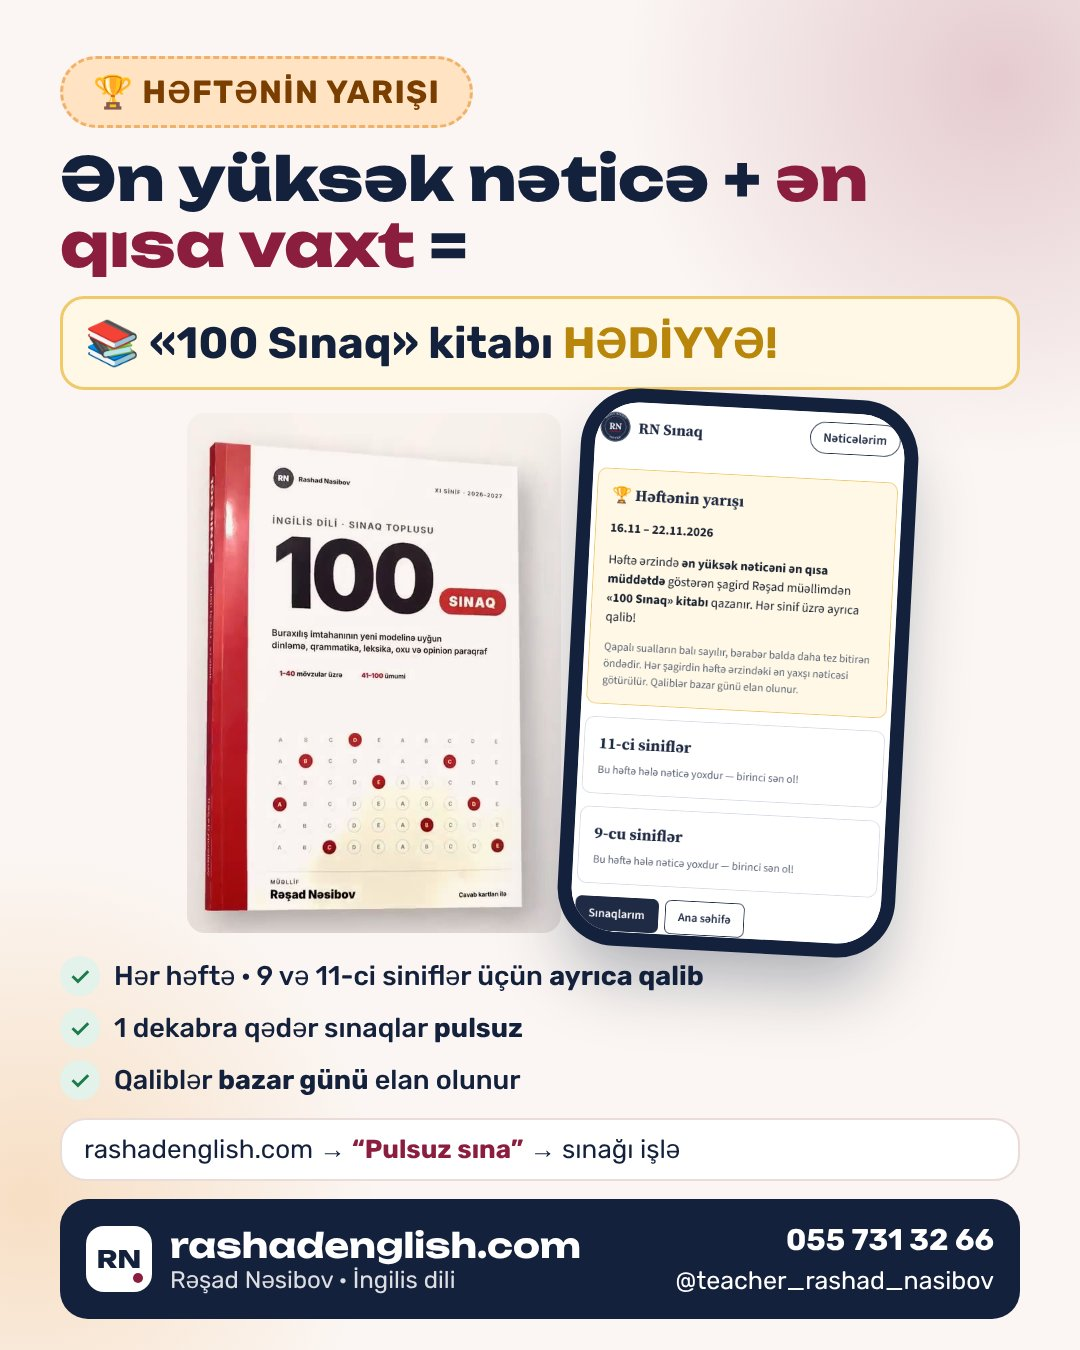
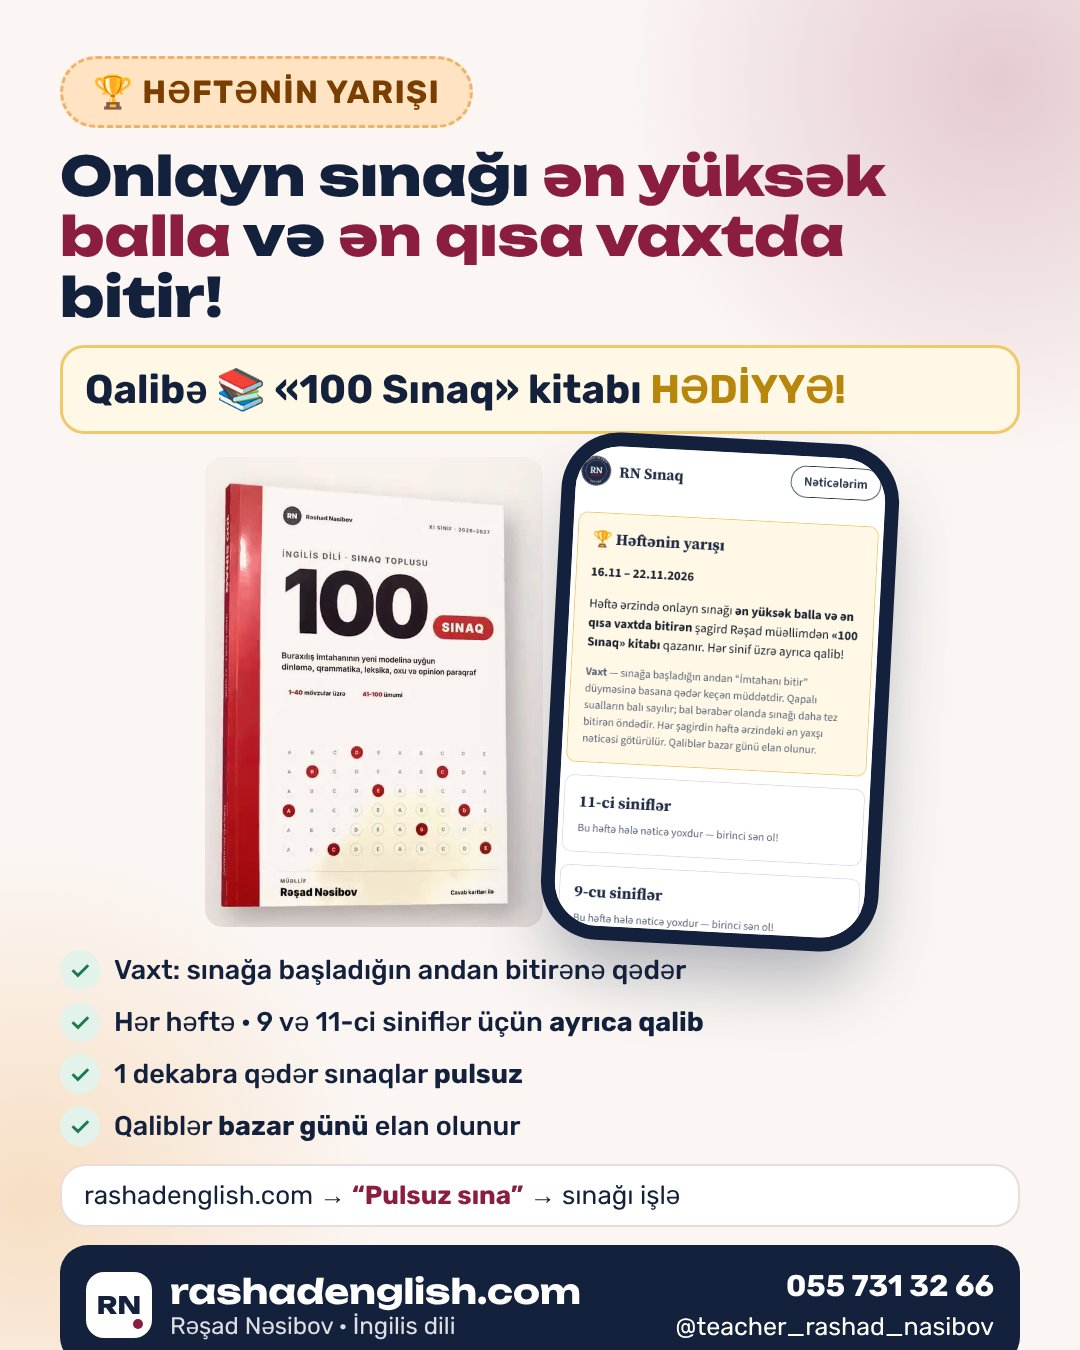
Yarış: vaxt şərti aydınlaşdırıldı
Claude-Session: https://claude.ai/code/session_01Hk9sGQBL3DWnEys9vsL7EC

diff --git a/index.html b/index.html
@@ -1006,7 +1006,7 @@ header.top .tabs a,header.top .tabs-in a,header.top:not(.compact) .tabs a{font-s
 <main id="home">
   <div class="film nslide" aria-label="Yeniliklər">
     <div class="wrap ns-head"><b>Yeniliklər</b><span class="ns-nav"><button type="button" class="ns-p" aria-label="Əvvəlki">‹</button><button type="button" class="ns-n" aria-label="Növbəti">›</button></span></div>
-    <div class="wrap"><div class="ns-view"><div class="ns-track"><a class="ns-s" href="#sinaq-qrupu" data-to="yaris"><span class="ns-img"><img src="img/yaris.jpg" alt="" ></span><span class="ns-tx"><em>🏆 Həftənin yarışı</em><b>Ən yüksək nəticə + ən qısa vaxt = «100 Sınaq» kitabı hədiyyə!</b><span>9 və 11-ci siniflər üçün ayrıca qalib. Qaliblər hər bazar günü elan olunur.</span><i>Yarışa qoşul →</i></span></a><a class="ns-s" href="#sinaq-qrupu" data-to="promo"><span class="ns-img"><img src="img/9sinif.jpg" alt="" loading="lazy"></span><span class="ns-tx"><em>📢 Yenilik</em><b>Artıq 9-cu siniflər də onlayn sınaqda!</b><span>Buraxılış formatında: dinləmə, oxu, qrammatika, story. 1 dekabra qədər pulsuz.</span><i>Pulsuz sına →</i></span></a><a class="ns-s" href="/dinleme/"><span class="ns-img"><img src="img/dinleme.jpg" alt="" loading="lazy"></span><span class="ns-tx"><em>🎧 Yenilik</em><b>«100 Sınaq» kitabının dinləmələri saytda</b><span>100 sınağın hamısı — reklamsız, telefondan birbaşa dinlə.</span><i>Dinləmələrə keç →</i></span></a><a class="ns-s" href="#sinaq-qrupu"><span class="ns-img"><img src="poster.jpg" alt="" loading="lazy"></span><span class="ns-tx"><em>1 dekabrdan</em><b>Onlayn Sınaq Qrupu</b><span>Ayda 8 DİM tipli sınaq, nəticə vərəqi və səhvlərin izahı — 20 ₼.</span><i>Ətraflı →</i></span></a><a class="ns-s" href="#kitab"><span class="ns-img"><img src="book-poster.jpg" alt="" loading="lazy"></span><span class="ns-tx"><em>Kitab</em><b>«100 Sınaq» — XI sinif, 2026–2027</b><span>Buraxılış imtahanının yeni modelinə uyğun 100 sınaq, cavab kartları ilə.</span><i>Kitab haqqında →</i></span></a><a class="ns-s" href="#neticeler"><span class="ns-img"><img src="av-aysu.jpg" alt="" loading="lazy"></span><span class="ns-tx"><em>2026 nəticələri</em><b>2 respublika birincisi, 66 tələbə universitetdə</b><span>Aysu Məhərrəmli və Nihad Fərəcov ingilis dilindən 400/400.</span><i>Nəticələrə bax →</i></span></a></div></div><div class="ns-dots"></div></div>
+    <div class="wrap"><div class="ns-view"><div class="ns-track"><a class="ns-s" href="#sinaq-qrupu" data-to="yaris"><span class="ns-img"><img src="img/yaris.jpg" alt="" ></span><span class="ns-tx"><em>🏆 Həftənin yarışı</em><b>Onlayn sınağı ən yüksək balla və ən qısa vaxtda bitir — «100 Sınaq» kitabı qazan!</b><span>Vaxt sınağa başladığın andan bitirənə qədər ölçülür. 9 və 11-ci siniflər üçün ayrıca qalib, qaliblər hər bazar günü elan olunur.</span><i>Yarışa qoşul →</i></span></a><a class="ns-s" href="#sinaq-qrupu" data-to="promo"><span class="ns-img"><img src="img/9sinif.jpg" alt="" loading="lazy"></span><span class="ns-tx"><em>📢 Yenilik</em><b>Artıq 9-cu siniflər də onlayn sınaqda!</b><span>Buraxılış formatında: dinləmə, oxu, qrammatika, story. 1 dekabra qədər pulsuz.</span><i>Pulsuz sına →</i></span></a><a class="ns-s" href="/dinleme/"><span class="ns-img"><img src="img/dinleme.jpg" alt="" loading="lazy"></span><span class="ns-tx"><em>🎧 Yenilik</em><b>«100 Sınaq» kitabının dinləmələri saytda</b><span>100 sınağın hamısı — reklamsız, telefondan birbaşa dinlə.</span><i>Dinləmələrə keç →</i></span></a><a class="ns-s" href="#sinaq-qrupu"><span class="ns-img"><img src="poster.jpg" alt="" loading="lazy"></span><span class="ns-tx"><em>1 dekabrdan</em><b>Onlayn Sınaq Qrupu</b><span>Ayda 8 DİM tipli sınaq, nəticə vərəqi və səhvlərin izahı — 20 ₼.</span><i>Ətraflı →</i></span></a><a class="ns-s" href="#kitab"><span class="ns-img"><img src="book-poster.jpg" alt="" loading="lazy"></span><span class="ns-tx"><em>Kitab</em><b>«100 Sınaq» — XI sinif, 2026–2027</b><span>Buraxılış imtahanının yeni modelinə uyğun 100 sınaq, cavab kartları ilə.</span><i>Kitab haqqında →</i></span></a><a class="ns-s" href="#neticeler"><span class="ns-img"><img src="av-aysu.jpg" alt="" loading="lazy"></span><span class="ns-tx"><em>2026 nəticələri</em><b>2 respublika birincisi, 66 tələbə universitetdə</b><span>Aysu Məhərrəmli və Nihad Fərəcov ingilis dilindən 400/400.</span><i>Nəticələrə bax →</i></span></a></div></div><div class="ns-dots"></div></div>
   </div>
   <div class="hero">
     <div class="wrap hero-grid">
@@ -1143,10 +1143,11 @@ header.top .tabs a,header.top .tabs-in a,header.top:not(.compact) .tabs a{font-s
         <img src="img/yaris.jpg" alt="Həftənin yarışı — «100 Sınaq» kitabı hədiyyə" loading="lazy">
         <div class="yb">
           <span class="yc">🏆 Həftənin yarışı</span>
-          <h3>Ən yüksək nəticə + ən qısa vaxt = <em>«100 Sınaq» kitabı hədiyyə!</em></h3>
-          <ul><li>Həftə ərzində (bazar ertəsi – bazar) onlayn sınaqda <b>ən yüksək balı ən qısa müddətdə</b> toplayan şagird qalib olur.</li>
+          <h3>Onlayn sınağı ən yüksək balla və ən qısa vaxtda bitir — <em>«100 Sınaq» kitabı qazan!</em></h3>
+          <ul><li>Həftə ərzində (bazar ertəsi – bazar) onlayn sınağı <b>ən yüksək balla və ən qısa vaxtda bitirən</b> şagird qalib olur.</li>
+          <li><b>Vaxt</b> — sınağa başladığın andan “İmtahanı bitir” düyməsinə basana qədər keçən müddətdir (maksimum 1 saat).</li>
           <li><b>9 və 11-ci siniflər</b> üçün ayrıca qalib.</li>
-          <li>Qapalı sualların balı sayılır; bal bərabər olanda daha tez bitirən öndədir. Hər şagirdin həftəlik ən yaxşı nəticəsi götürülür.</li>
+          <li>Qapalı sualların balı sayılır; bal bərabər olanda sınağı daha tez bitirən öndədir. Hər şagirdin həftəlik ən yaxşı nəticəsi götürülür.</li>
           <li>Reytinqi sınaq pəncərəsində <b>“🏆 Həftənin yarışı”</b> düyməsi ilə canlı izlə. Qaliblər <b>bazar günü</b> elan olunur.</li></ul>
           <button class="btn accent" type="button" id="yarisGo">Yarışa qoşul →</button>
         </div>
